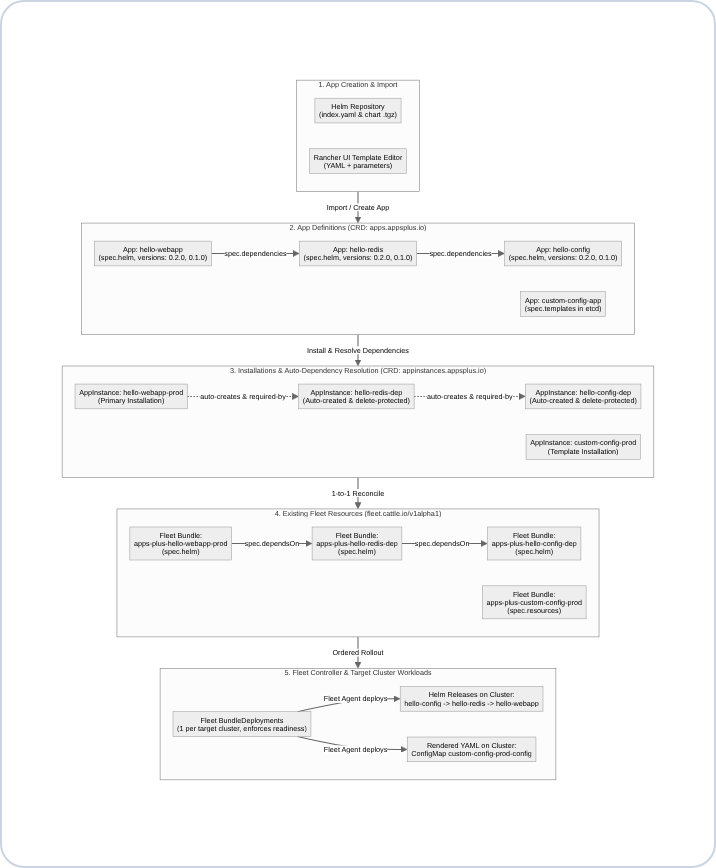
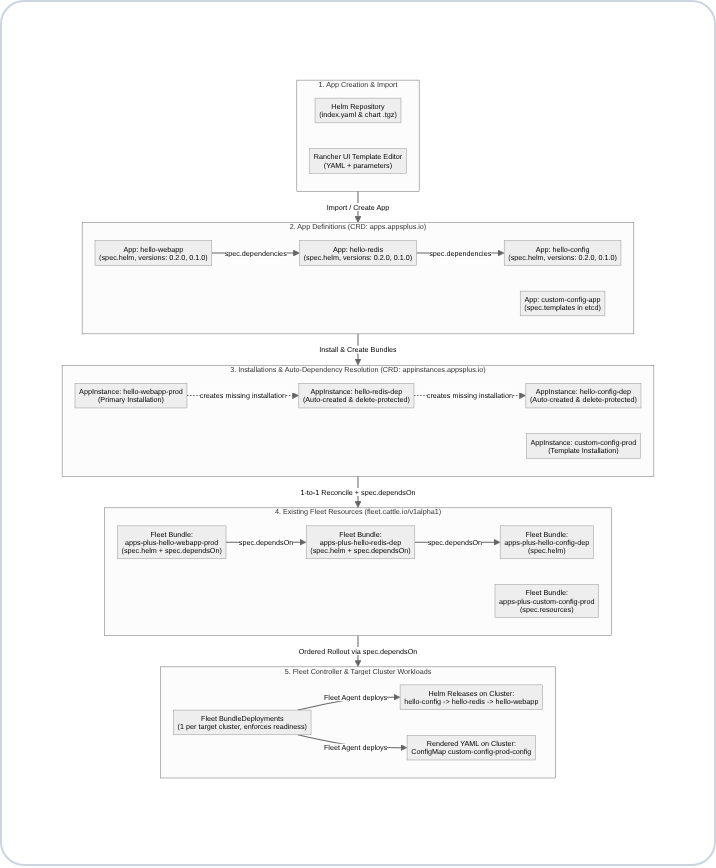
Wire Fleet Bundle spec.dependsOn for dependency ordering and lookup (v0.6.10)

diff --git a/pkg/apps-plus/models/appsplus.io.appinstance.js b/pkg/apps-plus/models/appsplus.io.appinstance.js
@@ -3,8 +3,7 @@ import SteveModel from '@shell/plugins/steve/steve-class';
 import {
   APP, APP_INSTANCE, FLEET_BUNDLE, FLEET_BUNDLE_DEPLOYMENT, FLEET_CLUSTER, BUNDLE_PREFIX, DEFAULT_WORKSPACE,
   DEFAULT_TARGET_NAMESPACE,
-  PROVISIONING_CLUSTER, PROVISION_WORKSPACE, PRODUCT_NAME, BLANK_CLUSTER, LIST_ROUTE, steveType,
-  DEPENDENCY_INSTANCE_LABEL, REQUIRED_BY_ANNOTATION, parseDependencyList
+  PROVISIONING_CLUSTER, PROVISION_WORKSPACE, PRODUCT_NAME, BLANK_CLUSTER, LIST_ROUTE, steveType
 } from '../config/types';
 import { NORMAN } from '@shell/config/types';
 import {
@@ -45,31 +44,67 @@ export default class AppInstance extends SteveModel {
     return this.spec?.version || this.app?.helmVersion || '';
   }
 
+  get dependencies() {
+    const fromApp = this.app?.dependencies || [];
+    const bundleDeps = this.bundle?.spec?.dependsOn || [];
+
+    if (!bundleDeps.length) {
+      return fromApp;
+    }
+
+    let allInstances = [];
+
+    try {
+      allInstances = this.$rootGetters['management/all'](APP_INSTANCE) || [];
+    } catch {}
+
+    const fromBundle = bundleDeps.map((d) => {
+      if (d?.selector?.matchLabels?.['appsplus.io/app']) {
+        return d.selector.matchLabels['appsplus.io/app'];
+      }
+      if (d?.name) {
+        const match = allInstances.find((inst) => inst.bundleName === d.name);
+
+        if (match?.spec?.app) {
+          return match.spec.app;
+        }
+
+        return d.name.replace(new RegExp(`^${ BUNDLE_PREFIX }`), '').replace(/-dep$/, '');
+      }
+
+      return '';
+    }).filter(Boolean);
+
+    return [...new Set([...fromApp, ...fromBundle])];
+  }
+
   get dependentInstances() {
     const myApp = this.spec?.app;
+    const myBundle = this.bundleName;
 
-    if (!myApp) {
+    if (!myApp && !myBundle) {
       return [];
     }
 
     try {
       const allInstances = this.$rootGetters['management/all'](APP_INSTANCE) || [];
-      const requiredByNames = new Set(
-        parseDependencyList(this.metadata?.annotations?.[REQUIRED_BY_ANNOTATION])
-      );
 
       return allInstances.filter((inst) => {
         if (!inst || inst.metadata?.name === this.metadata?.name || inst.isTerminating) {
           return false;
         }
 
-        if (requiredByNames.has(inst.metadata?.name)) {
+        const bundleDeps = inst.bundle?.spec?.dependsOn || [];
+        const matchesBundle = bundleDeps.some((d) => (
+          d?.name === myBundle ||
+          (myApp && d?.selector?.matchLabels?.['appsplus.io/app'] === myApp)
+        ));
+
+        if (matchesBundle) {
           return true;
         }
 
-        const deps = inst.app?.dependencies || [];
-
-        return deps.includes(myApp);
+        return !!myApp && (inst.app?.dependencies || []).includes(myApp);
       });
     } catch {
       return [];
@@ -77,8 +112,7 @@ export default class AppInstance extends SteveModel {
   }
 
   get isDependency() {
-    return this.metadata?.labels?.[DEPENDENCY_INSTANCE_LABEL] === 'true' ||
-      this.dependentInstances.length > 0;
+    return this.dependentInstances.length > 0;
   }
 
   get doneRoute() {
@@ -659,32 +693,13 @@ export default class AppInstance extends SteveModel {
       ));
 
       if (existing) {
-        const currentReq = new Set(
-          parseDependencyList(existing.metadata?.annotations?.[REQUIRED_BY_ANNOTATION])
-        );
-
-        if (this.metadata?.name && !currentReq.has(this.metadata.name)) {
-          currentReq.add(this.metadata.name);
-          existing.metadata.annotations = {
-            ...(existing.metadata?.annotations || {}),
-            [REQUIRED_BY_ANNOTATION]: [...currentReq].join(','),
-          };
-          try {
-            await existing.save();
-          } catch {}
-        }
         continue;
       }
 
-      const depInstanceName = `${ depAppName }-dep`;
       const created = await this.$dispatch('create', {
         type:     APP_INSTANCE,
-        metadata: {
-          name:        depInstanceName,
-          labels:      { [DEPENDENCY_INSTANCE_LABEL]: 'true' },
-          annotations: this.metadata?.name ? { [REQUIRED_BY_ANNOTATION]: this.metadata.name } : {},
-        },
-        spec: {
+        metadata: { name: `${ depAppName }-dep` },
+        spec:     {
           app:       depAppName,
           namespace: this.targetNamespace,
           targets:   this.effectiveTargets,
@@ -695,6 +710,25 @@ export default class AppInstance extends SteveModel {
 
       allInstances.push(savedDep);
     }
+  }
+
+  async resolveDependsOn(app) {
+    const deps = app?.dependencies || [];
+
+    if (!deps.length) {
+      return [];
+    }
+
+    const allInstances = await this.findAllOrCached(APP_INSTANCE, { force: true });
+
+    return deps.map((depAppName) => {
+      const match = allInstances.find((inst) => (
+        inst?.spec?.app === depAppName && !inst.isTerminating
+      ));
+      const name = match ? match.bundleName : `${ BUNDLE_PREFIX }${ depAppName }-dep`;
+
+      return { name };
+    });
   }
 
   async resolveMissingDependencies() {
@@ -879,6 +913,7 @@ export default class AppInstance extends SteveModel {
 
   async syncBundle() {
     const app = await this.resolveApp();
+    const dependsOn = await this.resolveDependsOn(app);
     let resources = renderTemplates(app, this);
     const byWorkspace = await this.targetsByWorkspace();
     const helmSpec = { takeOwnership: true };
@@ -935,6 +970,10 @@ export default class AppInstance extends SteveModel {
         helm:             helmSpec,
       };
 
+      if (dependsOn.length > 0) {
+        bundleSpec.dependsOn = dependsOn;
+      }
+
       if (!app?.isHelmChart || resources.length > 0) {
         bundleSpec.resources = resources;
       }
@@ -960,6 +999,7 @@ export default class AppInstance extends SteveModel {
         name:            this.bundleName,
         namespace,
         labels:          {
+          'appsplus.io/app':      this.spec?.app || '',
           'appsplus.io/instance': this.metadata?.name,
           'appsplus.io/install':  this.metadata?.name,
         },

diff --git a/pkg/apps-plus/config/types.ts b/pkg/apps-plus/config/types.ts
@@ -34,8 +34,6 @@ export const APP_QUERY = 'app';
 export const DEPENDENCIES_ANNOTATION = 'appsplus.io/dependencies';
 export const DEPENDS_ON_ANNOTATION = 'appsplus.io/depends-on';
 export const DEPENDS_ON_LABEL_PREFIX = 'depends-on.appsplus.io/';
-export const DEPENDENCY_INSTANCE_LABEL = 'appsplus.io/dependency';
-export const REQUIRED_BY_ANNOTATION = 'appsplus.io/required-by';
 
 export function parseDependencyList(raw?: string | null): string[] {
   if (!raw || typeof raw !== 'string') {

diff --git a/pkg/apps-plus/detail/appsplus.io.appinstance.vue b/pkg/apps-plus/detail/appsplus.io.appinstance.vue
@@ -184,7 +184,7 @@ export default {
 
       rows.push(...crdRelatedRows(t));
 
-      (app?.dependencies || []).forEach((dep) => {
+      (this.value.dependencies || []).forEach((dep) => {
         const depInst = this.instances.find((inst) => inst.spec?.app === dep && !inst.isTerminating);
         const depApp = this.appsByName[dep];
 

diff --git a/pkg/apps-plus/components/DependenciesPopover.vue b/pkg/apps-plus/components/DependenciesPopover.vue
@@ -49,7 +49,7 @@ export default {
     },
 
     dependencies() {
-      return this.row?.app?.dependencies || [];
+      return this.row?.dependencies || this.row?.app?.dependencies || [];
     },
 
     dependentInstances() {

diff --git a/README.md b/README.md
@@ -38,8 +38,8 @@ https://github.com/user-attachments/assets/2025c99a-a65d-488a-b13e-5dd9c47fb2da
 | Custom Resource (`Kind` / `apiVersion`) | Backing CRD (`CustomResourceDefinition`) | Provided By | Purpose & What It Stores |
 | :--- | :--- | :--- | :--- |
 | **`App`**<br>`appsplus.io/v1alpha1` | `apps.appsplus.io` | **Apps Plus UI Extension**<br>*(etcd storage only — no custom controller)* | Cluster-scoped catalog entry storing either `spec.helm` (`repo`, `chart`, `version`, `versions`) or `spec.templates` (parameterized YAML), plus default `spec.values` and `spec.dependencies`. |
-| **`AppInstance`**<br>`appsplus.io/v1alpha1` | `appinstances.appsplus.io` | **Apps Plus UI Extension**<br>*(etcd storage only — reconciled by UI into a Fleet `Bundle`)* | Tracks an installed release of an `App` (target clusters, namespace, value overrides, selected chart version). Auto-installed dependencies are also `AppInstance` resources labeled `appsplus.io/dependency: "true"` and annotated with `appsplus.io/required-by`. |
-| **`Bundle`**<br>`fleet.cattle.io/v1alpha1` | `bundles.fleet.cattle.io` | **Existing Rancher Fleet**<br>*(reconciled by Fleet controller)* | Standard Fleet `Bundle` (`apps-plus-<instance>`) created 1-to-1 for every `AppInstance`. Uses Fleet's native `spec.helm` for Helm chart releases, `spec.resources` for YAML templates, and `spec.dependsOn` for dependency ordering. |
+| **`AppInstance`**<br>`appsplus.io/v1alpha1` | `appinstances.appsplus.io` | **Apps Plus UI Extension**<br>*(etcd storage only — reconciled by UI into a Fleet `Bundle`)* | Tracks an installed release of an `App` (target clusters, namespace, value overrides, selected chart version). At install time, missing dependency `AppInstance` and Fleet `Bundle` resources are created up front, with dependency relationships wired directly via Fleet's `Bundle.spec.dependsOn`. |
+| **`Bundle`**<br>`fleet.cattle.io/v1alpha1` | `bundles.fleet.cattle.io` | **Existing Rancher Fleet**<br>*(reconciled by Fleet controller)* | Standard Fleet `Bundle` (`apps-plus-<instance>`) created 1-to-1 for every `AppInstance`. Uses Fleet's native `spec.helm` for Helm chart releases, `spec.resources` for YAML templates, and `spec.dependsOn` for dependency rollout ordering and tracking. |
 | **`BundleDeployment`**<br>`fleet.cattle.io/v1alpha1` | `bundledeployments.fleet.cattle.io` | **Existing Rancher Fleet**<br>*(reconciled by Fleet agent)* | Created automatically by Fleet's controller for each target cluster; installs the Helm release or YAML resources on the cluster and reports readiness. |
 
 ---
